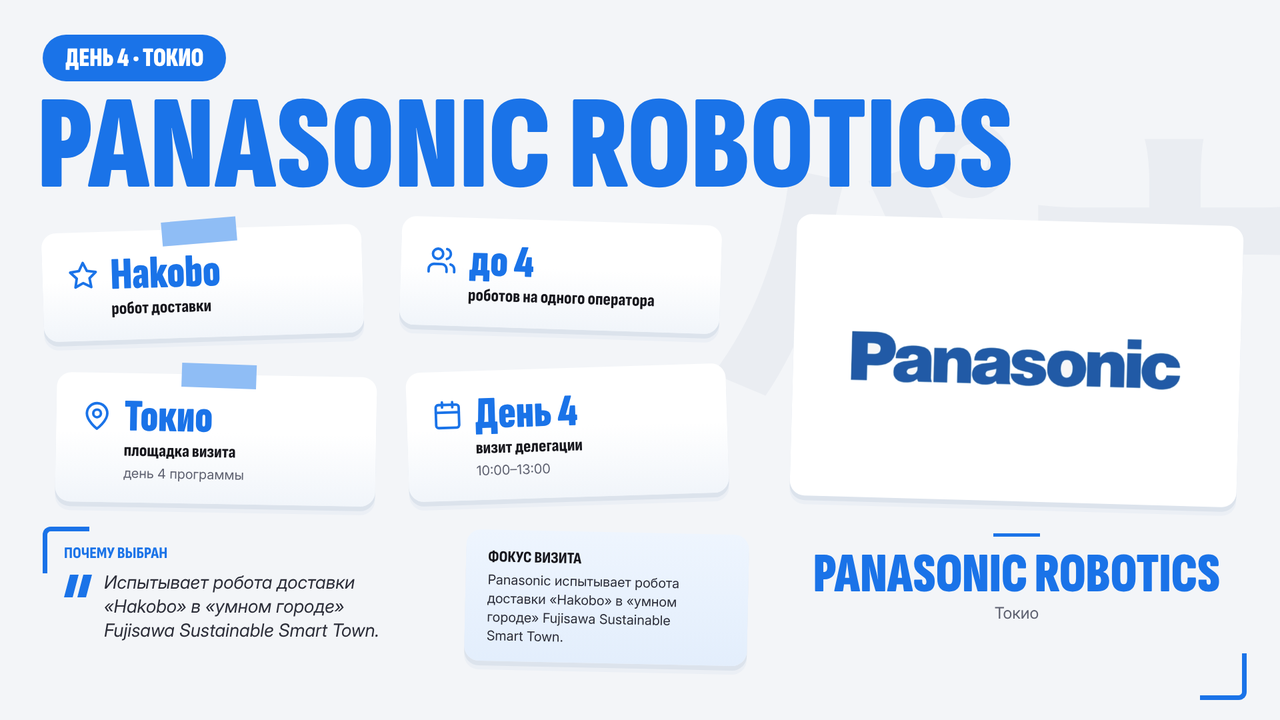
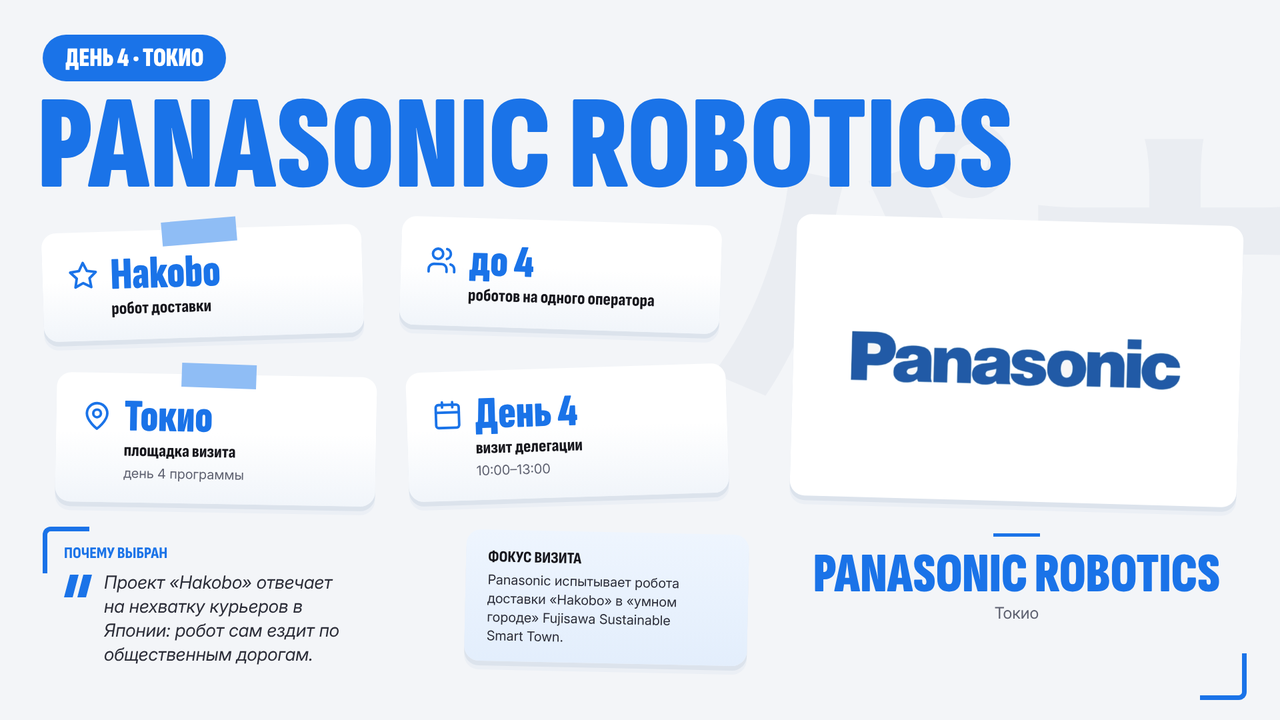
Презентации: 7 экспедиций Японии (конвертер + ручная выверка), обзор страны
- контент/2026-10-08-япония-<ритейл|еда|доставка|интернет|красота|лонгевити|чай-кофе>.json → готовые PDF и превью,
  обзор готовые/превью/страна-япония.jpg; ЭКСПЕДИЦИИ.md — Япония ✅
- from_site.py: японские названия без 株式会社 и повтора латиницы, полноширинные скобки, призрак для каны,
  основной город для «Токио / Нода (Тиба)», суффикс Japan при поиске логотипа, проверка HTML вместо логотипа
  (Kosé — NFD), год «учреждена/Основана», придаточные и «изначально …» не идут в «Почему выбран»,
  «В том же году / Позже» — обрывок, точка внутри кавычек и «преф.» не рвут предложение, день из 3 компаний в 2 строки
- логотипы PayPay, NTT, Panasonic Robotics обрезаны до знака компании; Таиланд проверен (вывод не ухудшился)

Claude-Session: https://claude.ai/code/session_01GWbvgKxue3PjjbbHEP4BVJ

Changed region(s): [[0.0625, 0.7944, 0.2812, 0.9167]]

diff --git a/презентации/шаблон/from_site.py b/презентации/шаблон/from_site.py
@@ -1027,7 +1027,7 @@ def candidates(c):
                             continue
                         if re.search(r'\b(?:котор\w+|чь\w+|где|когда)\b', part[:st], re.I):
                             break  # «…, корни которых восходят к 1906 году» — придаточное, не про компанию
-                        if founded and re.search(r'(?:изначально|первоначально|сначала|поначалу|когда-то|ранее)\s+$', part[:st], re.I):
+                        if founded and re.search(r'(?:изначально|первоначально|сначала|поначалу|когда-то|ранее|с самого начала|с момента основания)\s+$', part[:st], re.I):
                             continue  # «основана в 1899 году, изначально выпускала …» — история, не суть
                         txt = part[st:]
                         sc = 5 if re.match(ACTIVITY, w.lower()) else 2

diff --git a/презентации/ЭКСПЕДИЦИИ.md b/презентации/ЭКСПЕДИЦИИ.md
@@ -5,7 +5,7 @@
 | Страна | Экспедиций | Готово полностью | Только обложка | Осталось сделать |
 |---|---|---|---|---|
 | Китай | 21 | 0 | 0 | 21 |
-| Япония | 7 | 0 | 1 | 7 |
+| Япония | 7 | 7 | 0 | 0 |
 | Таиланд | 7 | 7 | 0 | 0 |
 | Вьетнам | 7 | 0 | 1 | 7 |
 | Индонезия | 7 | 0 | 1 | 7 |
@@ -13,9 +13,9 @@
 | Малайзия | 7 | 0 | 1 | 7 |
 | ОАЭ | 7 | 0 | 1 | 7 |
 | Южная Корея | 4 | 0 | 1 | 4 |
-| **Всего** | **74** | **7** | **7** | **67** |
+| **Всего** | **74** | **14** | **6** | **60** |
 
-Отметки: ✅ — готова (обзор Таиланда — `готовые/превью/страна-тайланд.jpg`), 🟦 — есть заготовка обложки (`презентации/контент/2026-10-08-обложка-<страна>.json`), 📄 — есть оригинал пользователя.
+Отметки: ✅ — готова (обзоры стран — `готовые/превью/страна-тайланд.jpg`, `страна-япония.jpg`), 🟦 — есть заготовка обложки (`презентации/контент/2026-10-08-обложка-<страна>.json`), 📄 — есть оригинал пользователя.
 
 ## Китай (21)
 
@@ -43,13 +43,13 @@
 
 ## Япония (7)
 
-- Ритейл Японии: от конбини до tech-дискаунтеров — `japan-retail-expedition` — 🟦 обложка
-- Продукты питания и молочная промышленность Японии — `japan-food-dairy-expedition`
-- Central/Dark Kitchen и быстрая доставка еды в Японии — `japan-dark-kitchen-delivery-expedition`
-- Интернет-гиганты Японии: ИИ, мессенджеры, e-commerce — `japan-tech-internet-giants-expedition`
-- Косметика и бьюти-технологии Японии — `japan-beauty-industry-expedition`
-- Лонгевити и anti-aging биотех Японии — `japan-longevity-biotech-expedition`
-- Бабл-ти и кофейная индустрия Японии — `japan-bubble-tea-coffee-expedition`
+- Ритейл Японии: от конбини до tech-дискаунтеров — `japan-retail-expedition` — ✅ готова (18 слайдов, конвертер + ручная выверка: `готовые/2026-10-08-япония-ритейл.pdf`)
+- Продукты питания и молочная промышленность Японии — `japan-food-dairy-expedition` — ✅ готова (17 слайдов, конвертер + ручная выверка: `готовые/2026-10-08-япония-еда.pdf`)
+- Central/Dark Kitchen и быстрая доставка еды в Японии — `japan-dark-kitchen-delivery-expedition` — ✅ готова (17 слайдов, конвертер + ручная выверка: `готовые/2026-10-08-япония-доставка.pdf`)
+- Интернет-гиганты Японии: ИИ, мессенджеры, e-commerce — `japan-tech-internet-giants-expedition` — ✅ готова (17 слайдов, конвертер + ручная выверка: `готовые/2026-10-08-япония-интернет.pdf`)
+- Косметика и бьюти-технологии Японии — `japan-beauty-industry-expedition` — ✅ готова (18 слайдов, конвертер + ручная выверка: `готовые/2026-10-08-япония-красота.pdf`)
+- Лонгевити и anti-aging биотех Японии — `japan-longevity-biotech-expedition` — ✅ готова (18 слайдов, конвертер + ручная выверка: `готовые/2026-10-08-япония-лонгевити.pdf`)
+- Бабл-ти и кофейная индустрия Японии — `japan-bubble-tea-coffee-expedition` — ✅ готова (16 слайдов, конвертер + ручная выверка: `готовые/2026-10-08-япония-чай-кофе.pdf`)
 
 ## Таиланд (7)
 

diff --git a/презентации/README.md b/презентации/README.md
@@ -63,6 +63,16 @@ python3 презентации/шаблон/from_site.py --list th          # в
 Проверка на Таиланде: `контент/_проверка-тайланд.json` (конвертер) против ручной `2026-10-08-тайланд.json` —
 `готовые/превью/сравнение-конвертер-тайланд.jpg`. Обзор всех 7 презентаций Таиланда — `готовые/превью/страна-тайланд.jpg`.
 
+Япония (08.10.2026): все 7 экспедиций — `контент/2026-10-08-япония-<тема>.json`, обзор `готовые/превью/страна-япония.jpg`.
+Что конвертер умеет для Японии: японское название (`name_zh`) без «株式会社» и без повтора латиницы («ZMP株式会社» → не
+показывается), полноширинные скобки «（PPIH）» убираются; призрак на фоне — короткое название целиком, длинное — 2 знака;
+город «Токио / Нода (Тиба)», «Осака / Кобе» в маршруте и на обложке считается основным городом (подпись дня — полная);
+суффикс «Japan» и т. п. не мешает найти логотип в библиотеке («Seven-Eleven Japan» → 7-Eleven); если сайт вместо логотипа
+отдаёт HTML-страницу, пробуется запись имени в NFD («Kosé.png»). Три компании в один день — заголовок дня в две строки.
+После конвертера всё равно нужна ручная выверка: тонкие карточки (2 факта) дополняются фактами из описания сайта,
+«Почему выбран» с обрывками («Позже, …», «В том же году …») переписывается. Логотипы с подписями сайта
+(«企業情報» у PayPay, «西日本» у NTT, «Welding and Handling Robots» у Panasonic) обрезаны до знака компании.
+
 ## Как устроен шаблон
 
 - Формат слайда — 1920×1080 px, в PDF 1440×810 pt (точно как оригиналы, они тоже свёрстаны в Chromium).
